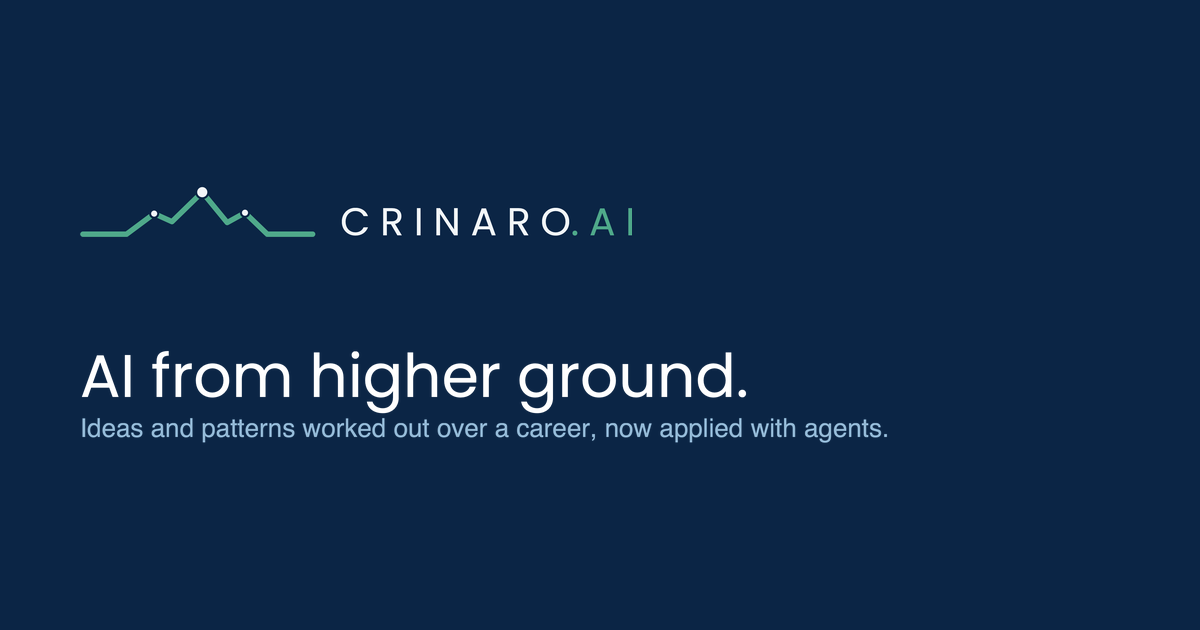
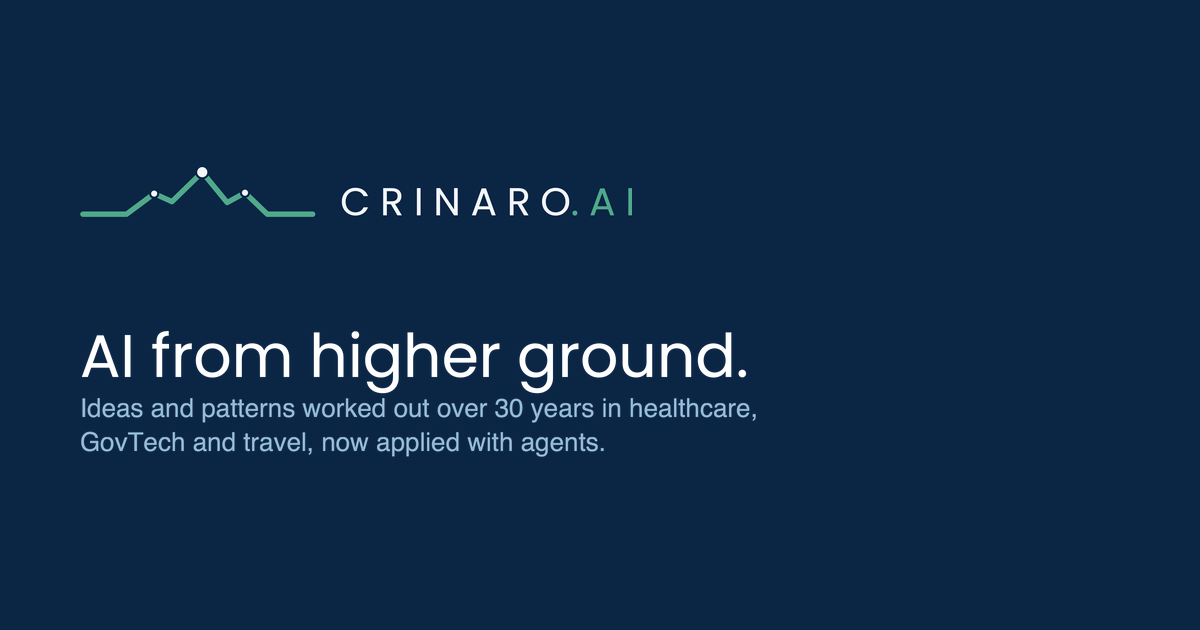
Update site

Changed region(s): [[0.0617, 0.5127, 0.74, 0.7238], [0.0617, 0.2714, 0.5242, 0.3921]]

diff --git a/index.html b/index.html
@@ -5,9 +5,9 @@
 <meta name="viewport" content="width=device-width, initial-scale=1">
 <title>Crinaro.AI · AI from higher ground</title>
 
-<meta name="description" content="Ideas and patterns worked out over a career, now applied with agents. Drawn from delivery in healthcare, government and travel.">
+<meta name="description" content="Ideas and patterns worked out over 30 years in healthcare, GovTech and travel, now applied with agents.">
 <meta property="og:title" content="Crinaro.AI">
-<meta property="og:description" content="AI from higher ground. Ideas and patterns worked out over a career, now applied with agents.">
+<meta property="og:description" content="AI from higher ground. Ideas and patterns worked out over 30 years in healthcare, GovTech and travel, now applied with agents.">
 <meta property="og:type" content="website">
 <meta property="og:url" content="https://crinaro.ai/">
 <meta property="og:image" content="https://crinaro.ai/icons/crinaro-og-1200x630.png">
@@ -91,7 +91,13 @@
                 display:flex; flex-direction:column; gap:2.4rem; }
   .hero svg { width:100%; max-width:26rem; height:auto; display:block; }
   .hero h1 { color:#FFFFFF; max-width:32ch; }
-  .hero p { color:var(--rblue); font-size:1.1rem; max-width:44ch; }
+  /* 54ch, measured rather than chosen. 44ch broke the old subhead after "now",
+     stranding it, at every viewport from 1000px up; 56ch and above break the
+     current one after "GovTech" or "and". 54ch breaks at the comma, which is
+     the same break the social card draws, so the page and the share image read
+     identically. Poppins is embedded, so this holds on every machine. Re-probe
+     it if the subhead changes — the number is a fact about this string. */
+  .hero p { color:var(--rblue); font-size:1.1rem; max-width:54ch; }
   .hero .src { color:var(--rblue); border-bottom-color:rgba(147,184,212,.45);
                align-self:flex-start; margin-top:.4rem; }
   .hero .src:hover { color:#FFFFFF; border-bottom-color:#FFFFFF; }
@@ -208,7 +214,7 @@
   <text x="310.0" y="212" text-anchor="middle" fill="#F2F6F8" font-family="Poppins,Futura,'Century Gothic','Avenir Next',Avenir,sans-serif" font-size="52" font-weight="500" letter-spacing="0.26em" dx="0 0 0 0 0 0 0 -6.76 -6.76 0">CRINARO<tspan fill="#4FA98A">.AI</tspan></text>
 </svg>
     <h1>AI from higher ground.</h1>
-    <p>Ideas and patterns worked out over a career, now applied with agents.</p>
+    <p>Ideas and patterns worked out over 30 years in healthcare, GovTech and travel, now applied with agents.</p>
     <a class="src" href="/notes/">Read the notes <span aria-hidden="true">&rarr;</span></a>
   </div>
 </header>

diff --git a/src/build-site.js b/src/build-site.js
@@ -75,7 +75,7 @@ const CLAIM_HTML = CLAIM.replace(/\. /, '.<br>');
 // reader sees before the page loads. check-drift.sh compares the rendered page
 // against build-icons.py, the deck and the decisions file, but it never read the
 // meta tags, which is exactly how a second copy goes stale unwatched.
-const SUB = 'Ideas and patterns worked out over a career, now applied with agents.';
+const SUB = 'Ideas and patterns worked out over 30 years in healthcare, GovTech and travel, now applied with agents.';
 
 // The problem is reuse, not delivery. Crinaro is not a custom development shop
 // — it builds services others can use, and advises the teams using them. The
@@ -310,7 +310,13 @@ const CSS = `${FONTS}
                 display:flex; flex-direction:column; gap:2.4rem; }
   .hero svg { width:100%; max-width:26rem; height:auto; display:block; }
   .hero h1 { color:#FFFFFF; max-width:32ch; }
-  .hero p { color:var(--rblue); font-size:1.1rem; max-width:44ch; }
+  /* 54ch, measured rather than chosen. 44ch broke the old subhead after "now",
+     stranding it, at every viewport from 1000px up; 56ch and above break the
+     current one after "GovTech" or "and". 54ch breaks at the comma, which is
+     the same break the social card draws, so the page and the share image read
+     identically. Poppins is embedded, so this holds on every machine. Re-probe
+     it if the subhead changes — the number is a fact about this string. */
+  .hero p { color:var(--rblue); font-size:1.1rem; max-width:54ch; }
   .hero .src { color:var(--rblue); border-bottom-color:rgba(147,184,212,.45);
                align-self:flex-start; margin-top:.4rem; }
   .hero .src:hover { color:#FFFFFF; border-bottom-color:#FFFFFF; }
@@ -1063,7 +1069,7 @@ const html = `<!doctype html>
 <!-- No person named here, on purpose — see the note on the "Where this comes
      from" section. "Installed in your own environment" stays dropped: it was a
      deployment claim, sitting in the tag that shows in a search result. -->
-<meta name="description" content="${SUB} Drawn from delivery in healthcare, government and travel.">
+<meta name="description" content="${SUB}">
 <meta property="og:title" content="Crinaro.AI">
 <meta property="og:description" content="${CLAIM} ${SUB}">
 <meta property="og:type" content="website">

diff --git a/notes/coaching-is-a-file/index.html b/notes/coaching-is-a-file/index.html
@@ -88,7 +88,13 @@
                 display:flex; flex-direction:column; gap:2.4rem; }
   .hero svg { width:100%; max-width:26rem; height:auto; display:block; }
   .hero h1 { color:#FFFFFF; max-width:32ch; }
-  .hero p { color:var(--rblue); font-size:1.1rem; max-width:44ch; }
+  /* 54ch, measured rather than chosen. 44ch broke the old subhead after "now",
+     stranding it, at every viewport from 1000px up; 56ch and above break the
+     current one after "GovTech" or "and". 54ch breaks at the comma, which is
+     the same break the social card draws, so the page and the share image read
+     identically. Poppins is embedded, so this holds on every machine. Re-probe
+     it if the subhead changes — the number is a fact about this string. */
+  .hero p { color:var(--rblue); font-size:1.1rem; max-width:54ch; }
   .hero .src { color:var(--rblue); border-bottom-color:rgba(147,184,212,.45);
                align-self:flex-start; margin-top:.4rem; }
   .hero .src:hover { color:#FFFFFF; border-bottom-color:#FFFFFF; }

diff --git a/notes/five-user-apis/index.html b/notes/five-user-apis/index.html
@@ -88,7 +88,13 @@
                 display:flex; flex-direction:column; gap:2.4rem; }
   .hero svg { width:100%; max-width:26rem; height:auto; display:block; }
   .hero h1 { color:#FFFFFF; max-width:32ch; }
-  .hero p { color:var(--rblue); font-size:1.1rem; max-width:44ch; }
+  /* 54ch, measured rather than chosen. 44ch broke the old subhead after "now",
+     stranding it, at every viewport from 1000px up; 56ch and above break the
+     current one after "GovTech" or "and". 54ch breaks at the comma, which is
+     the same break the social card draws, so the page and the share image read
+     identically. Poppins is embedded, so this holds on every machine. Re-probe
+     it if the subhead changes — the number is a fact about this string. */
+  .hero p { color:var(--rblue); font-size:1.1rem; max-width:54ch; }
   .hero .src { color:var(--rblue); border-bottom-color:rgba(147,184,212,.45);
                align-self:flex-start; margin-top:.4rem; }
   .hero .src:hover { color:#FFFFFF; border-bottom-color:#FFFFFF; }

diff --git a/notes/index.html b/notes/index.html
@@ -86,7 +86,13 @@
                 display:flex; flex-direction:column; gap:2.4rem; }
   .hero svg { width:100%; max-width:26rem; height:auto; display:block; }
   .hero h1 { color:#FFFFFF; max-width:32ch; }
-  .hero p { color:var(--rblue); font-size:1.1rem; max-width:44ch; }
+  /* 54ch, measured rather than chosen. 44ch broke the old subhead after "now",
+     stranding it, at every viewport from 1000px up; 56ch and above break the
+     current one after "GovTech" or "and". 54ch breaks at the comma, which is
+     the same break the social card draws, so the page and the share image read
+     identically. Poppins is embedded, so this holds on every machine. Re-probe
+     it if the subhead changes — the number is a fact about this string. */
+  .hero p { color:var(--rblue); font-size:1.1rem; max-width:54ch; }
   .hero .src { color:var(--rblue); border-bottom-color:rgba(147,184,212,.45);
                align-self:flex-start; margin-top:.4rem; }
   .hero .src:hover { color:#FFFFFF; border-bottom-color:#FFFFFF; }

diff --git a/notes/prompting-to-specifying/index.html b/notes/prompting-to-specifying/index.html
@@ -88,7 +88,13 @@
                 display:flex; flex-direction:column; gap:2.4rem; }
   .hero svg { width:100%; max-width:26rem; height:auto; display:block; }
   .hero h1 { color:#FFFFFF; max-width:32ch; }
-  .hero p { color:var(--rblue); font-size:1.1rem; max-width:44ch; }
+  /* 54ch, measured rather than chosen. 44ch broke the old subhead after "now",
+     stranding it, at every viewport from 1000px up; 56ch and above break the
+     current one after "GovTech" or "and". 54ch breaks at the comma, which is
+     the same break the social card draws, so the page and the share image read
+     identically. Poppins is embedded, so this holds on every machine. Re-probe
+     it if the subhead changes — the number is a fact about this string. */
+  .hero p { color:var(--rblue); font-size:1.1rem; max-width:54ch; }
   .hero .src { color:var(--rblue); border-bottom-color:rgba(147,184,212,.45);
                align-self:flex-start; margin-top:.4rem; }
   .hero .src:hover { color:#FFFFFF; border-bottom-color:#FFFFFF; }

diff --git a/notes/shared-skills/index.html b/notes/shared-skills/index.html
@@ -88,7 +88,13 @@
                 display:flex; flex-direction:column; gap:2.4rem; }
   .hero svg { width:100%; max-width:26rem; height:auto; display:block; }
   .hero h1 { color:#FFFFFF; max-width:32ch; }
-  .hero p { color:var(--rblue); font-size:1.1rem; max-width:44ch; }
+  /* 54ch, measured rather than chosen. 44ch broke the old subhead after "now",
+     stranding it, at every viewport from 1000px up; 56ch and above break the
+     current one after "GovTech" or "and". 54ch breaks at the comma, which is
+     the same break the social card draws, so the page and the share image read
+     identically. Poppins is embedded, so this holds on every machine. Re-probe
+     it if the subhead changes — the number is a fact about this string. */
+  .hero p { color:var(--rblue); font-size:1.1rem; max-width:54ch; }
   .hero .src { color:var(--rblue); border-bottom-color:rgba(147,184,212,.45);
                align-self:flex-start; margin-top:.4rem; }
   .hero .src:hover { color:#FFFFFF; border-bottom-color:#FFFFFF; }

diff --git a/notes/the-direction-people-forget/index.html b/notes/the-direction-people-forget/index.html
@@ -88,7 +88,13 @@
                 display:flex; flex-direction:column; gap:2.4rem; }
   .hero svg { width:100%; max-width:26rem; height:auto; display:block; }
   .hero h1 { color:#FFFFFF; max-width:32ch; }
-  .hero p { color:var(--rblue); font-size:1.1rem; max-width:44ch; }
+  /* 54ch, measured rather than chosen. 44ch broke the old subhead after "now",
+     stranding it, at every viewport from 1000px up; 56ch and above break the
+     current one after "GovTech" or "and". 54ch breaks at the comma, which is
+     the same break the social card draws, so the page and the share image read
+     identically. Poppins is embedded, so this holds on every machine. Re-probe
+     it if the subhead changes — the number is a fact about this string. */
+  .hero p { color:var(--rblue); font-size:1.1rem; max-width:54ch; }
   .hero .src { color:var(--rblue); border-bottom-color:rgba(147,184,212,.45);
                align-self:flex-start; margin-top:.4rem; }
   .hero .src:hover { color:#FFFFFF; border-bottom-color:#FFFFFF; }

diff --git a/notes/the-last-hop/index.html b/notes/the-last-hop/index.html
@@ -88,7 +88,13 @@
                 display:flex; flex-direction:column; gap:2.4rem; }
   .hero svg { width:100%; max-width:26rem; height:auto; display:block; }
   .hero h1 { color:#FFFFFF; max-width:32ch; }
-  .hero p { color:var(--rblue); font-size:1.1rem; max-width:44ch; }
+  /* 54ch, measured rather than chosen. 44ch broke the old subhead after "now",
+     stranding it, at every viewport from 1000px up; 56ch and above break the
+     current one after "GovTech" or "and". 54ch breaks at the comma, which is
+     the same break the social card draws, so the page and the share image read
+     identically. Poppins is embedded, so this holds on every machine. Re-probe
+     it if the subhead changes — the number is a fact about this string. */
+  .hero p { color:var(--rblue); font-size:1.1rem; max-width:54ch; }
   .hero .src { color:var(--rblue); border-bottom-color:rgba(147,184,212,.45);
                align-self:flex-start; margin-top:.4rem; }
   .hero .src:hover { color:#FFFFFF; border-bottom-color:#FFFFFF; }
